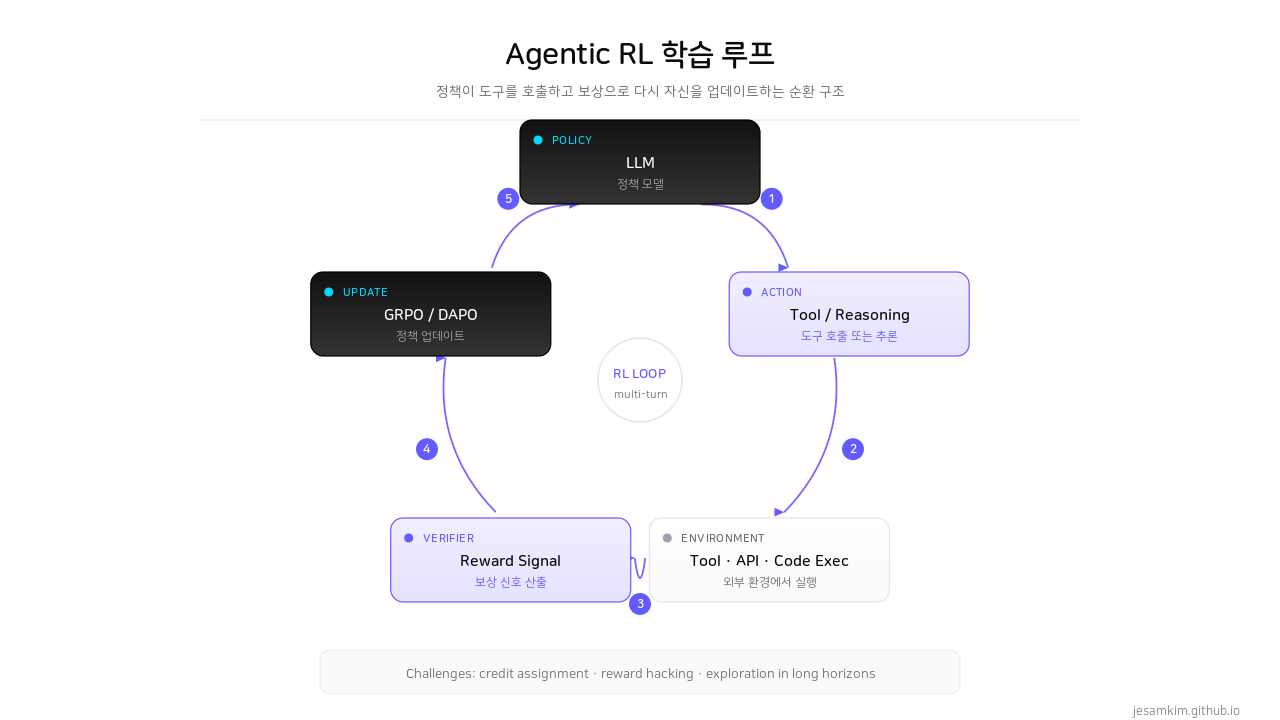
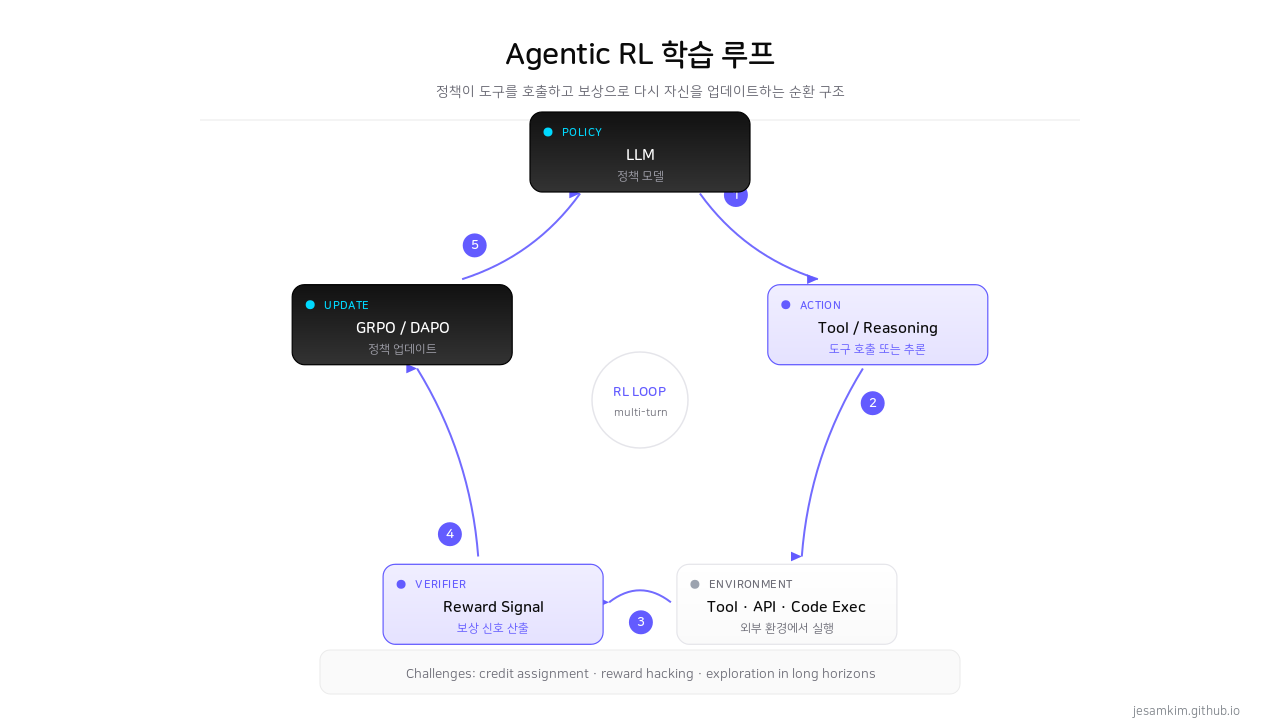
Expand section 7: add Bedrock paths (Custom Model Import, Distillation, AgentCore)
- Split AWS checklist into 4 stages: train / serve / agent-run / first-question
- Add Bedrock Custom Model Import, Model Distillation
- Add AgentCore/Agents for Bedrock for agent execution
- Refine diagram-3 (Agentic RL loop) for clarity

diff --git a/content/posts/2026-05-10-rlvr-agentic-rl-papers-review.md b/content/posts/2026-05-10-rlvr-agentic-rl-papers-review.md
@@ -179,13 +179,29 @@ prompt로 이걸 다 시키는 것과 비교하면 trade-off가 명확합니다.
 
 <strong>4. 탐색-활용 균형</strong>. DAPO의 Clip-Higher가 다루는 문제와 같은 맥락입니다. 학습 후반부에 entropy가 떨어지면서 정책이 좁은 행동만 반복하면 일반화가 무너집니다. RL hyperparameter tuning은 여전히 비교적 어두운 영역입니다.
 
-<strong>AWS 환경 적용 시 체크리스트</strong>:
+<strong>AWS 환경 적용 시 체크리스트</strong>: 학습·서빙·에이전트 실행으로 나눠서 보면 정리가 쉽습니다.
+
+<strong>1) 학습 단계 (RL fine-tuning)</strong>
 
 - <strong>베이스 모델 sampling distribution 확인</strong>: success amplification 이론에 따르면, 베이스 모델이 한 번도 정답을 못 맞히는 task는 RLVR로 학습이 안 됩니다. RL을 시작하기 전에 베이스 모델의 pass@k(k=10~64 정도)를 측정해 0이 아닌지 확인합니다.
-- <strong>Verifier 환경의 결정성과 격리</strong>: AWS Lambda나 Fargate 위에 verifier를 격리해 돌리는 패턴이 안전합니다. SageMaker training job에서 verifier에 외부 네트워크 접근을 주면 reward hacking 통로가 열립니다.
-- <strong>Bedrock 자체에서는 GRPO/DAPO 직접 학습은 미지원</strong>: 2026년 5월 기준으로 Bedrock의 Custom Models는 SFT 위주이고, RL 기반 fine-tuning은 SageMaker AI에서 trl, verl, OpenRLHF 같은 오픈소스 프레임워크를 직접 띄워서 돌리는 패턴이 일반적입니다.
-- <strong>모델 크기 vs 학습 비용 trade-off</strong>: GRPO/DAPO는 critic 메모리를 줄였다지만, 같은 prompt에 여러 응답을 sampling하느라 inference 부담이 큽니다. 32B 모델 학습에는 멀티 노드 분산이 필요하고, 작게 시작해 검증 후 스케일하는 접근이 안전합니다.
-- <strong>"이 task에 정말 RL이 필요한가" 질문 먼저</strong>: SFT로 풀리면 SFT가 답입니다. SFT가 plateau에 닿고, 그 이상의 reasoning 깊이가 필요할 때 RLVR을 검토합니다. RL은 인프라 비용과 운영 복잡성이 SFT보다 한 단계 더 높습니다.
+- <strong>학습 스택 선택</strong>: 2026년 5월 기준 Bedrock의 Custom Models는 SFT 위주이고, GRPO·DAPO 같은 RL 알고리즘을 직접 돌리는 경로는 제공되지 않습니다. RL 학습이 필요하면 SageMaker AI(또는 SageMaker HyperPod)에서 trl, verl, OpenRLHF 같은 오픈소스 프레임워크를 띄워서 돌리는 패턴이 일반적입니다. 32B 이상 모델은 HyperPod의 멀티 노드 클러스터가 운영 부담을 줄여줍니다.
+- <strong>Verifier 환경의 결정성과 격리</strong>: AWS Lambda나 Fargate 위에 verifier를 격리해 돌리는 패턴이 안전합니다. 훈련 job에서 verifier에 외부 네트워크 접근을 주면 reward hacking 통로가 열립니다. 코드 실행형 verifier는 특히 sandboxing이 중요합니다.
+- <strong>모델 크기 vs 학습 비용 trade-off</strong>: GRPO/DAPO는 critic 메모리를 줄였지만, 같은 prompt에 여러 응답을 sampling하느라 inference 부담이 큽니다. 작게 시작해(예: 1~7B) 보상 설계·환경을 검증한 뒤 규모를 키우는 접근이 안전합니다.
+
+<strong>2) 서빙 단계 (학습된 모델 운영)</strong>
+
+- <strong>Custom Model Import로 Bedrock에 올리기</strong>: SageMaker에서 RLVR로 학습한 모델 가중치를 Bedrock Custom Model Import에 업로드하면 Bedrock InvokeModel API로 서빙할 수 있습니다. 학습은 SageMaker, 추론은 Bedrock이라는 분리가 가능합니다. 지원 아키텍처는 공식 문서에서 확인이 필요합니다.
+- <strong>Model Distillation으로 크기 줄이기</strong>: Bedrock Model Distillation을 쓰면 RLVR로 학습한 teacher 모델의 응답을 student 모델이 흉내 내도록 SFT 기반 distillation을 돌릴 수 있습니다. 추론 비용이 걸림돌일 때 검토할 만한 경로입니다.
+- <strong>SageMaker AI endpoint로 직접 서빙</strong>: Bedrock import가 아키텍처 호환 문제 등으로 어려우면 SageMaker AI 엔드포인트에서 직접 서빙하는 경로도 있습니다. 지연 특성과 비용 모델이 달라 요구사항에 맞춰 비교가 필요합니다.
+
+<strong>3) 에이전트 실행 단계 (Agentic RL)</strong>
+
+- <strong>AgentCore와의 결합</strong>: Agentic RL로 학습된 정책은 결국 "tool call + reasoning" 시퀀스를 생성합니다. Bedrock AgentCore의 managed harness나 Agents for Amazon Bedrock 위에서 학습된 정책을 실행하면 tool catalog, 세션 관리, 관측성을 직접 만들지 않아도 됩니다. 학습은 오픈소스 스택, 실행은 AgentCore로 가는 분업이 자연스럽습니다.
+- <strong>Tool interface 안정성</strong>: 에이전트 정책은 학습 시점의 tool 스키마에 의존합니다. 프로덕션에서 tool 스펙이 자주 바뀌면 정책이 빠르게 stale해집니다. tool 인터페이스를 계약(contract)처럼 관리하고, 변경 시 재학습 또는 재미세조정을 전제로 두는 것이 안전합니다.
+
+<strong>4) 가장 먼저 던질 질문</strong>
+
+- <strong>"이 task에 정말 RL이 필요한가"</strong>: SFT로 풀리면 SFT가 답입니다. SFT가 plateau에 닿고 그 이상의 reasoning 깊이가 필요할 때 RLVR을 검토합니다. RL은 인프라 비용과 운영 복잡성이 SFT보다 한 단계 더 높습니다. Bedrock이 제공하는 Custom Models(SFT) + Distillation 조합으로 충분한 경우도 많습니다.
 
 마지막으로 한 가지 메타 관찰을 덧붙이고 싶습니다. 2024년에는 "DPO가 PPO를 대체할 것"이라는 분위기가 있었는데, 2026년 현재 흐름은 그 반대로 가는 중입니다. RL이 다시 중심에 왔습니다. 이는 단순한 알고리즘 유행이 아니라, verifiable reward라는 새로운 보상 설계 방법이 RL의 실용 비용을 크게 낮췄기 때문이라고 봅니다. 이 흐름이 지속되면, 앞으로 1~2년 안에 LLM 포스트 트레이닝의 표준 파이프라인은 SFT → DPO에서 SFT → RLVR(또는 그 후속 알고리즘)로 옮겨갈 가능성이 높아 보입니다.
 